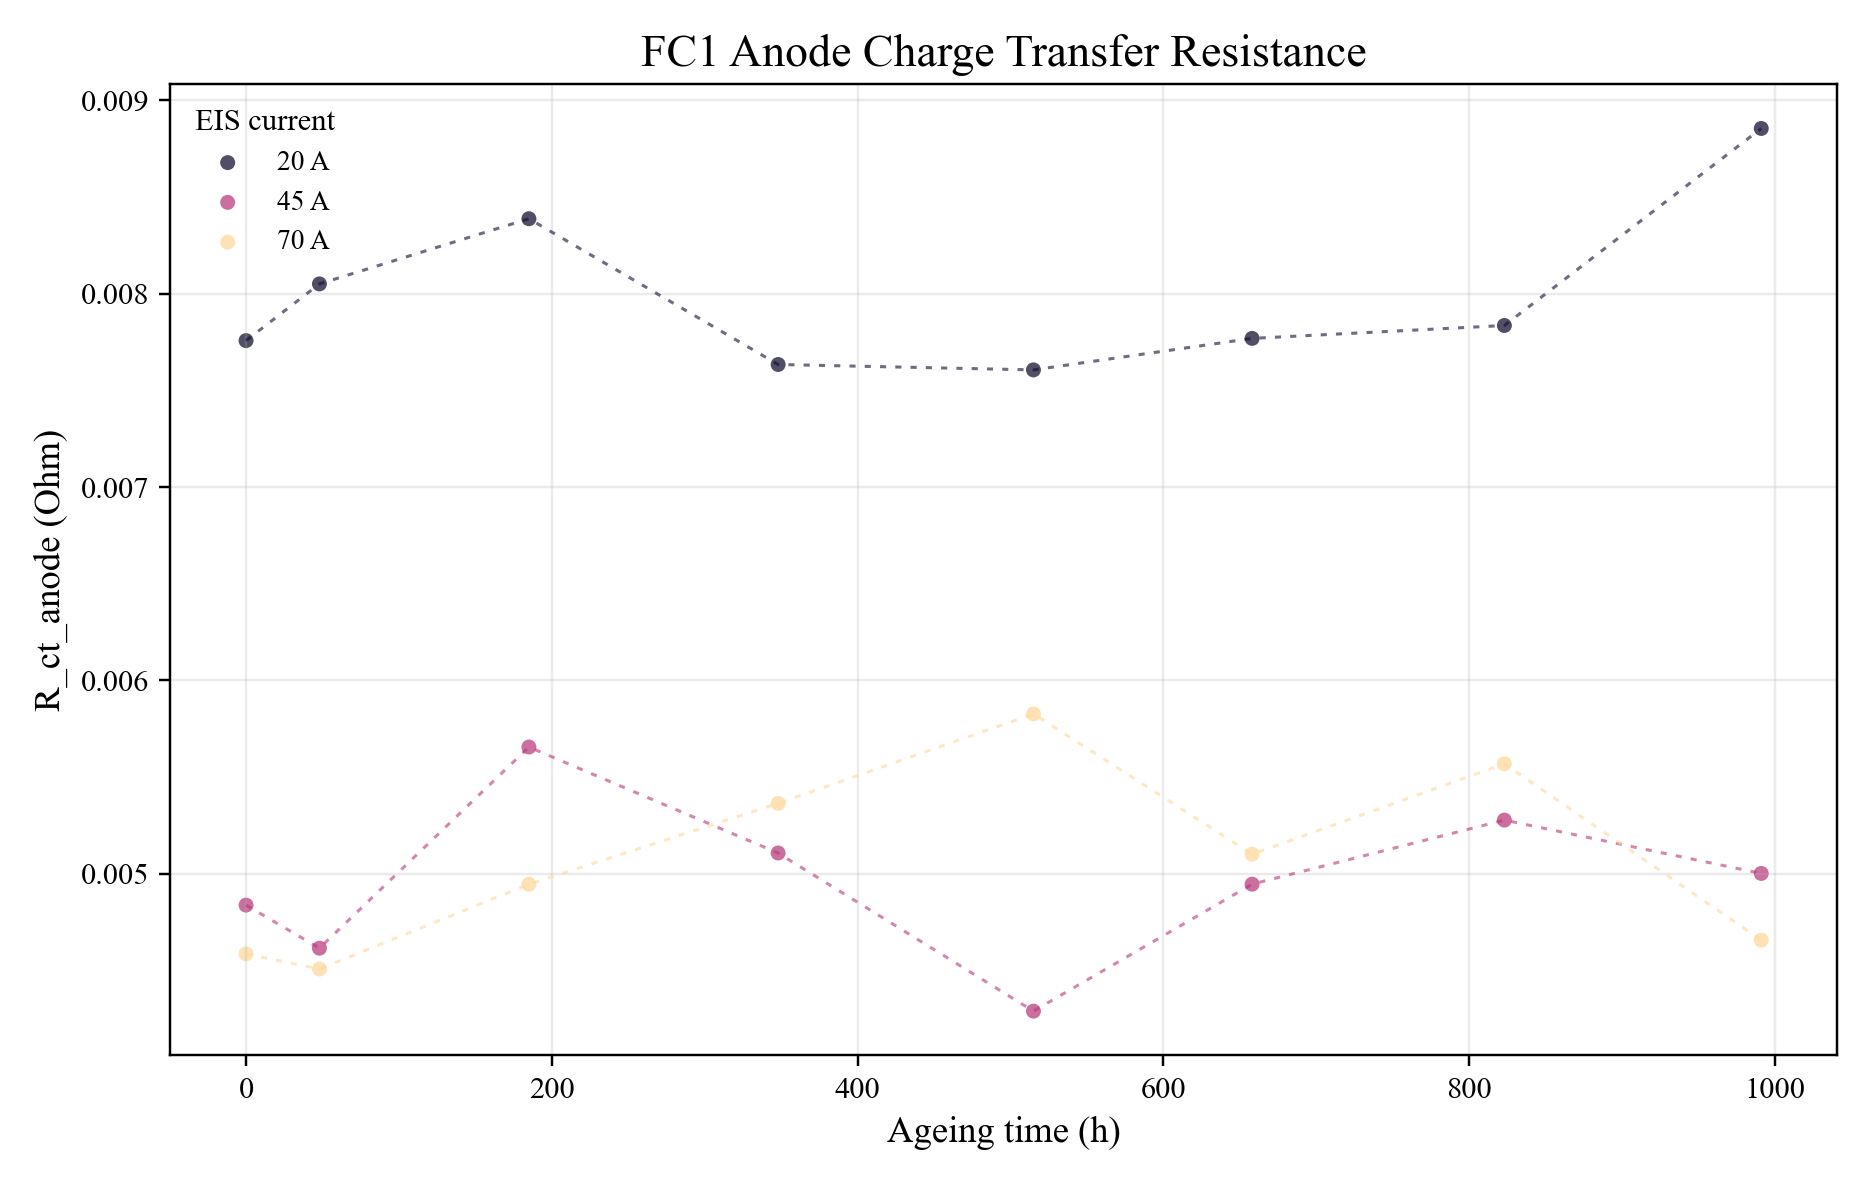
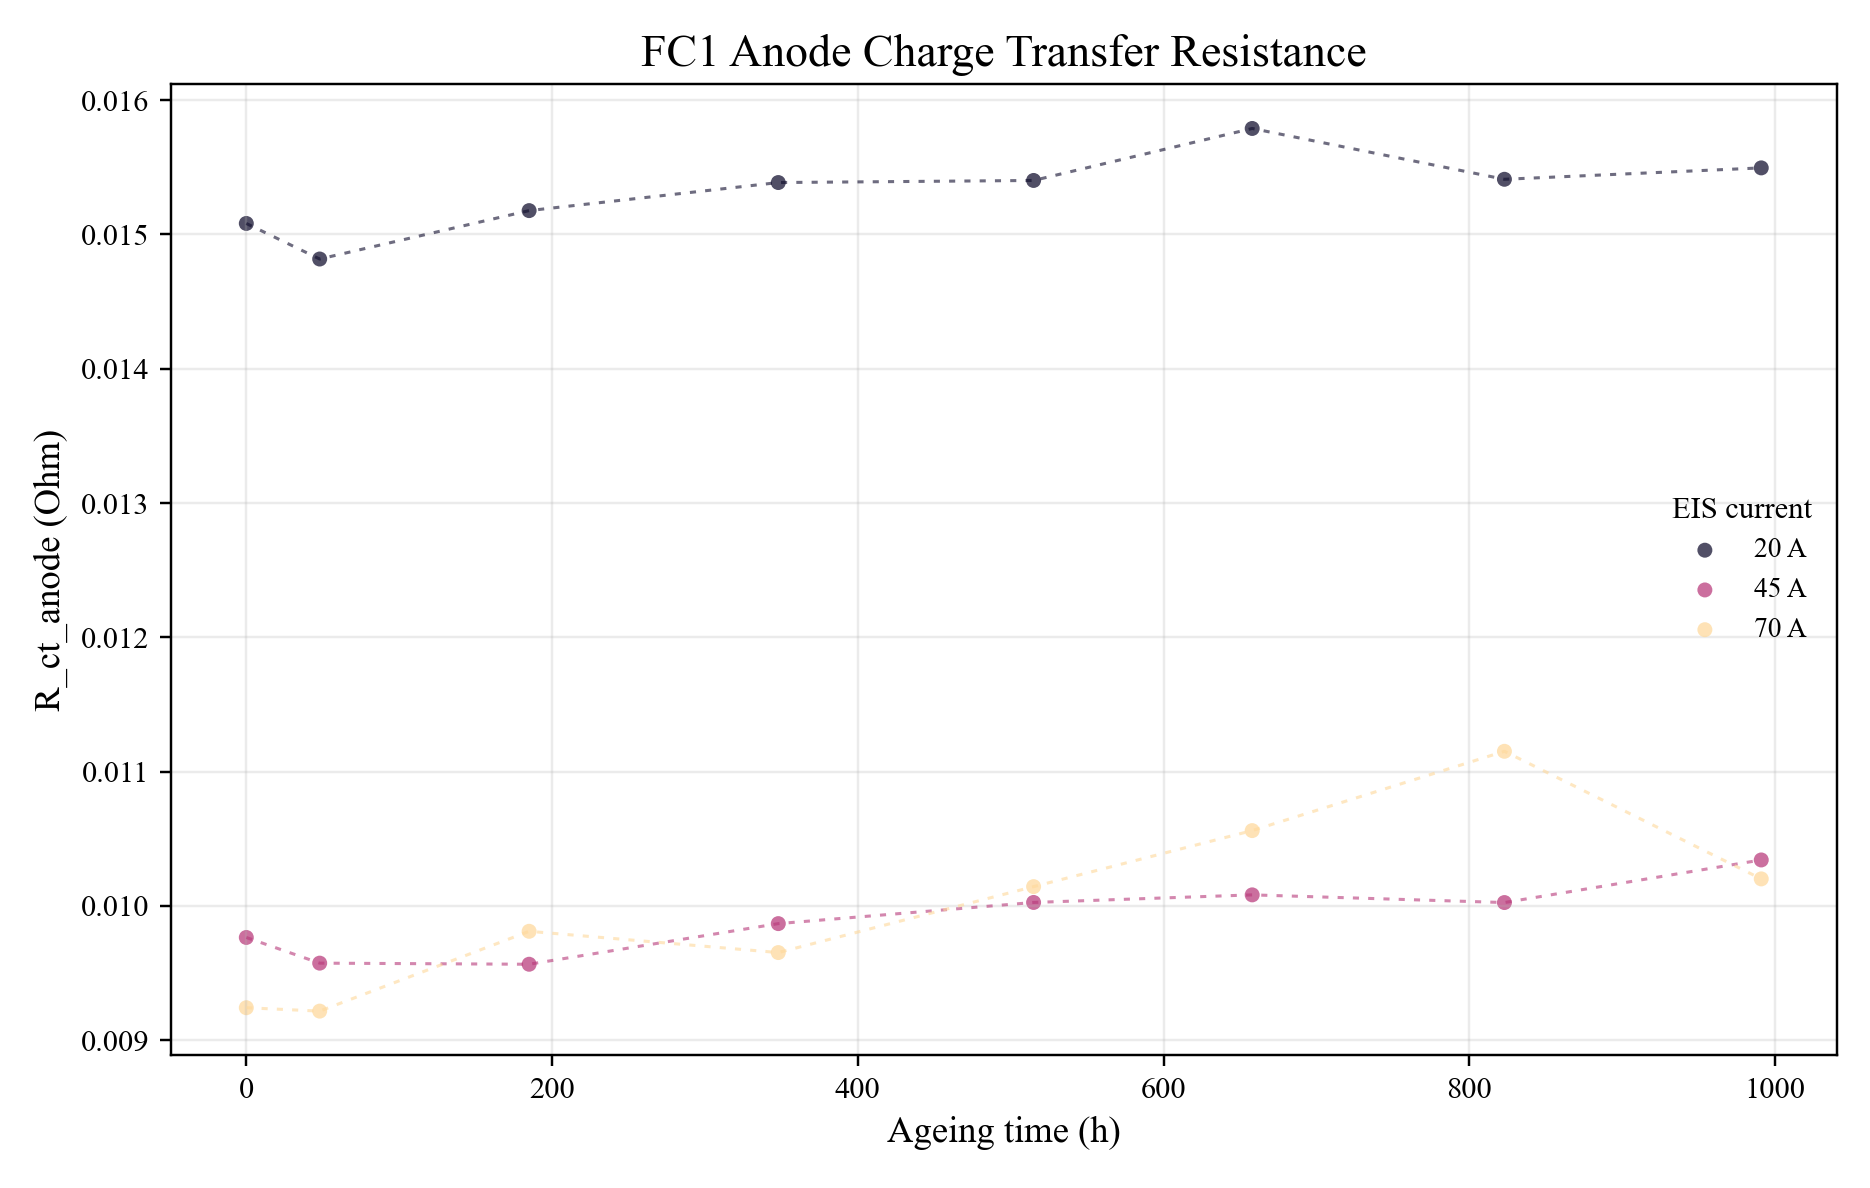
Use two-circle EIS resistance fitting

diff --git a/code/main.py b/code/main.py
@@ -300,6 +300,87 @@ def raw_eis_with_flipped_sign(curve: pd.DataFrame) -> pd.DataFrame:
     return raw.sort_values("fREQUENCY/hZ", ascending=False)
 
 
+def fit_circle(x: np.ndarray, y: np.ndarray) -> dict[str, float] | None:
+    if len(x) < 4:
+        return None
+
+    matrix = np.column_stack([x, y, np.ones_like(x)])
+    target = -(x**2 + y**2)
+    a, b, c = np.linalg.lstsq(matrix, target, rcond=None)[0]
+    center_x = -a / 2
+    center_y = -b / 2
+    radius_sq = center_x**2 + center_y**2 - c
+    if radius_sq <= 0:
+        return None
+
+    radius = np.sqrt(radius_sq)
+    radial_error = np.sqrt((x - center_x) ** 2 + (y - center_y) ** 2) - radius
+    return {
+        "center_x": center_x,
+        "center_y": center_y,
+        "radius": radius,
+        "mse": float(np.mean(radial_error**2)),
+    }
+
+
+def circle_x_intercepts(circle: dict[str, float]) -> tuple[float, float] | None:
+    center_x = circle["center_x"]
+    center_y = circle["center_y"]
+    radius = circle["radius"]
+    delta_sq = radius**2 - center_y**2
+    if delta_sq <= 0:
+        return None
+
+    delta = np.sqrt(delta_sq)
+    return center_x - delta, center_x + delta
+
+
+def fit_two_eis_arcs(arc: pd.DataFrame) -> dict[str, float] | None:
+    arc = arc.sort_values("r/oHM")
+    x = arc["r/oHM"].to_numpy(dtype=float)
+    y = arc["Z_img(Ohm)"].to_numpy(dtype=float)
+    n_points = len(arc)
+    min_points = max(8, int(n_points * 0.18))
+    best: dict[str, float] | None = None
+
+    for split_idx in range(min_points, n_points - min_points + 1):
+        x_first, y_first = x[:split_idx], y[:split_idx]
+        x_second, y_second = x[split_idx - 1 :], y[split_idx - 1 :]
+        first = fit_circle(x_first, y_first)
+        second = fit_circle(x_second, y_second)
+        if first is None or second is None:
+            continue
+
+        first_intercepts = circle_x_intercepts(first)
+        second_intercepts = circle_x_intercepts(second)
+        if first_intercepts is None or second_intercepts is None:
+            continue
+
+        first_left, first_right = first_intercepts
+        second_left, second_right = second_intercepts
+        if not (first_left < first_right <= second_right):
+            continue
+
+        total_mse = first["mse"] * len(x_first) + second["mse"] * len(x_second)
+        if best is None or total_mse < best["Fit MSE"]:
+            best = {
+                "R_ohmic (Ohm)": first_left,
+                "R_ct_anode (Ohm)": max(first_right - first_left, 0),
+                "R_ct_cathode (Ohm)": max(second_right - second_left, 0),
+                "R_ct_total (Ohm)": max(first_right - first_left, 0) + max(second_right - second_left, 0),
+                "Arc Split Real (Ohm)": x[split_idx - 1],
+                "Anode Circle Center Real (Ohm)": first["center_x"],
+                "Anode Circle Center Imag (Ohm)": first["center_y"],
+                "Anode Circle Radius (Ohm)": first["radius"],
+                "Cathode Circle Center Real (Ohm)": second["center_x"],
+                "Cathode Circle Center Imag (Ohm)": second["center_y"],
+                "Cathode Circle Radius (Ohm)": second["radius"],
+                "Fit MSE": total_mse,
+            }
+
+    return best
+
+
 def fit_eis_resistances(eis: pd.DataFrame) -> pd.DataFrame:
     rows = []
     for (fc, current, hour), group in eis.groupby(["Fuel Cell", "Current (A)", "Test Hour"]):
@@ -308,37 +389,16 @@ def fit_eis_resistances(eis: pd.DataFrame) -> pd.DataFrame:
         if len(arc) < 5:
             continue
 
-        x = arc["r/oHM"].to_numpy(dtype=float)
-        y = arc["Z_img(Ohm)"].to_numpy(dtype=float)
-        matrix = np.column_stack([x, y, np.ones_like(x)])
-        target = -(x**2 + y**2)
-        a, b, c = np.linalg.lstsq(matrix, target, rcond=None)[0]
-        center_x = -a / 2
-        center_y = -b / 2
-        radius = np.sqrt(max(center_x**2 + center_y**2 - c, 0))
-        intercept_delta = np.sqrt(max(radius**2 - center_y**2, 0))
-
-        left_intercept = center_x - intercept_delta
-        right_intercept = center_x + intercept_delta
-        apex_x = x[np.argmax(y)]
-        apex_x = min(max(apex_x, left_intercept), right_intercept)
-
-        r_ohmic = left_intercept
-        r_ct_anode = max(apex_x - left_intercept, 0)
-        r_ct_cathode = max(right_intercept - apex_x, 0)
+        fit = fit_two_eis_arcs(arc)
+        if fit is None:
+            continue
 
         rows.append(
             {
                 "Fuel Cell": fc,
                 "Current (A)": current,
                 "Test Hour": hour,
-                "R_ohmic (Ohm)": r_ohmic,
-                "R_ct_anode (Ohm)": r_ct_anode,
-                "R_ct_cathode (Ohm)": r_ct_cathode,
-                "R_ct_total (Ohm)": r_ct_anode + r_ct_cathode,
-                "Circle Center Real (Ohm)": center_x,
-                "Circle Center Imag (Ohm)": center_y,
-                "Circle Radius (Ohm)": radius,
+                **fit,
             }
         )
 
@@ -555,7 +615,7 @@ def write_main_readme(
         "",
         "## EIS Resistance Analysis",
         "",
-        "EIS resistance values were estimated from the Nyquist-oriented impedance arc using a least-squares circle fit. `R_ohmic` is taken from the high-frequency real-axis intercept of the fitted circle. The total arc span is split at the measured apex to provide approximate anode-side and cathode-side charge-transfer resistance trends.",
+        "EIS resistance values were estimated by fitting two least-squares circles to the Nyquist-oriented impedance arc. The split point is selected by scanning candidate boundaries and choosing the two-circle fit with the lowest residual error. `R_ohmic` is taken from the high-frequency real-axis intercept of the first fitted circle. `R_ct_anode` and `R_ct_cathode` are estimated from the real-axis diameters of the first and second fitted circles, respectively.",
         "",
         "The full fitted resistance table is saved at `results/eis_resistance_summary.csv`.",
         "",

diff --git a/README.md b/README.md
@@ -143,7 +143,7 @@ FC2 shows a larger voltage loss and a faster degradation rate than FC1, consiste
 
 ## EIS Resistance Analysis
 
-EIS resistance values were estimated from the Nyquist-oriented impedance arc using a least-squares circle fit. `R_ohmic` is taken from the high-frequency real-axis intercept of the fitted circle. The total arc span is split at the measured apex to provide approximate anode-side and cathode-side charge-transfer resistance trends.
+EIS resistance values were estimated by fitting two least-squares circles to the Nyquist-oriented impedance arc. The split point is selected by scanning candidate boundaries and choosing the two-circle fit with the lowest residual error. `R_ohmic` is taken from the high-frequency real-axis intercept of the first fitted circle. `R_ct_anode` and `R_ct_cathode` are estimated from the real-axis diameters of the first and second fitted circles, respectively.
 
 The full fitted resistance table is saved at `results/eis_resistance_summary.csv`.
 
@@ -151,12 +151,12 @@ The full fitted resistance table is saved at `results/eis_resistance_summary.csv
 
 | Fuel Cell | Current (A) | R_ohmic (Ohm) | R_ct_anode (Ohm) | R_ct_cathode (Ohm) | R_ct_total (Ohm) |
 | --- | --- | --- | --- | --- | --- |
-| FC1 | 20 | 0.0048 | 0.008 | 0.0094 | 0.0174 |
-| FC1 | 45 | 0.0047 | 0.005 | 0.0069 | 0.0118 |
-| FC1 | 70 | 0.0047 | 0.0051 | 0.0075 | 0.0126 |
-| FC2 | 20 | 0.0046 | 0.0079 | 0.0106 | 0.0185 |
-| FC2 | 45 | 0.0045 | 0.0055 | 0.0072 | 0.0127 |
-| FC2 | 70 | 0.0045 | 0.0055 | 0.0079 | 0.0133 |
+| FC1 | 20 | 0.0051 | 0.0153 | 0.0053 | 0.0206 |
+| FC1 | 45 | 0.0049 | 0.0099 | 0.0036 | 0.0135 |
+| FC1 | 70 | 0.0049 | 0.01 | 0.0042 | 0.0142 |
+| FC2 | 20 | 0.0049 | 0.0161 | 0.0056 | 0.0217 |
+| FC2 | 45 | 0.0047 | 0.0106 | 0.0047 | 0.0152 |
+| FC2 | 70 | 0.0047 | 0.0108 | 0.0063 | 0.0171 |
 
 ### Resistance Trend Figures
 
